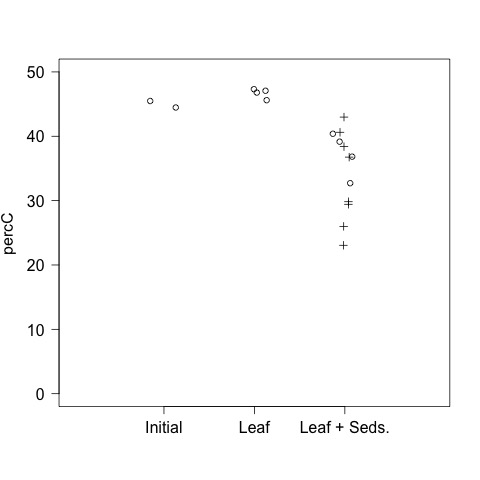
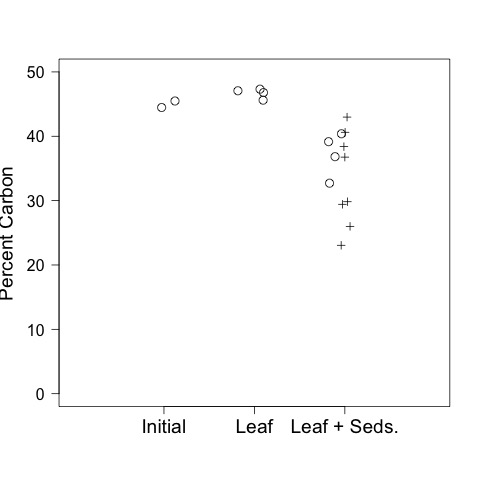
made figures better for ASB poster

diff --git a/lab_notebook/analysis/Leaf_CN_analysis.md b/lab_notebook/analysis/Leaf_CN_analysis.md
@@ -91,8 +91,8 @@ LS-L  -6.339343 -14.13283   1.454143 0.1063607
     axis(1, c("Initial", "Leaf", "Leaf + Sed."), at = c(1, 2, 3))
     box()
     points(jitter(rep(3, 8), 1), cn.cf$CN[cn.cf$Source == "leaf"], pch = 3)
-    dev.copy(jpeg, "./output/plots/cn_leaf_by_treatment.jpg")
-    dev.off()
+    #dev.copy(jpeg, "./output/plots/cn_leaf_by_treatment.jpg")
+    #dev.off()
 
 ![CN of Leaf by Treatment](../output/plots/cn_leaf_by_treatment.jpg)
 
@@ -162,9 +162,9 @@ LS-L -9.4250 -14.181663 -4.668337 0.0015993
 #### Plot
  
     par(las = 1)
-    plot(percC ~ jitter(as.numeric(Treat), 1), data = cn.ll, subset = Type == "Leaf",    ylim = c(0, 50), xlim = c(0, 4), xlab = " ", axes = F)
+    plot(percC ~ jitter(as.numeric(Treat), 1), data = cn.ll, subset = Type == "Leaf",    ylim = c(0, 50), xlim = c(0, 4), xlab = " ", ylab = "Percent Carbon", axes = F, cex = 1.5, cex.lab = 1.2)
     axis(2)
-    axis(1, c("Initial", "Leaf", "Leaf + Seds."), at = c(1, 2, 3))
+    axis(1, c("Initial", "Leaf", "Leaf + Seds."), at = c(1, 2, 3), cex.axis = 1.2)
     box()
     points(jitter(rep(3, 8), 1), cn.cf$percC[cn.cf$Source == "leaf"], pch = 3)
     dev.copy(jpeg, "./output/plots/percC_leaf_by_treatment.jpg")
@@ -184,6 +184,67 @@ To test whether there is more sediment attached to the leaves that were incubate
     axis(2)
     axis(1, c("S", "LS", "PRE"), at = c(1, 2, 3))
     box()
+    dev.copy(jpeg, "./output/plots/ash_mass_by_treatment.jpg")
+    dev.off()
+
+![Ash Mass of Leaf by Treatment](../output/plots/ash_mass_by_treatment.jpg)
+
+It looks like the ash mass of the leaf treatments is greater, indicating that the lower percent C may be just due to dilution of the sample with inorganic material.
+
+### Analysis of C Mass
+
+I am calculating the mass of C as the product of the sediment mass * the percent C
+
+    # Merge the cn.ll with the loi.ll data
+    ll.cn.loi <- merge(cn.ll, loi.ll, by.x = "BOD", by.y = "bod")
+    # Calculate the mass of C 
+    c.mass <- ll.cn.loi$percC * (ll.cn.loi$sed.mass / ll.cn.loi$leaf.num)
+
+#### Data Summary
+
+    summary(c.mass[ll.cn.loi$Type == "Leaf"])
+
+~~~~
+Summary of the Leaf C Mass from Leached Litter
+(g)
+
+ Min. 1st Qu.  Median    Mean 3rd Qu.    Max.    NAs 
+0.04067 0.05803 0.07068 0.07303 0.08542 0.10870       4 
+
+~~~~
+
+    tapply(c.mass[ll.cn.loi$Type == "Leaf"], ll.cn.loi$Treat[ll.cn.loi$Type == "Leaf"], summary)
+
+~~~~
+Summary of Leaf C Mass by Treatment (g)
+ 
+$I
+   Min. 1st Qu.  Median    Mean 3rd Qu.    Max. 
+0.08494 0.08638 0.09658 0.09670 0.10690 0.10870 
+
+$L
+   Min. 1st Qu.  Median    Mean 3rd Qu.    Max. 
+0.04067 0.05571 0.06253 0.06212 0.06894 0.08276 
+
+$LS
+   Min. 1st Qu.  Median    Mean 3rd Qu.    Max.    NAs 
+0.04981 0.04990 0.05912 0.06028 0.06950 0.07305       4
+
+~~~~
+ 
+#### Plot 
+ 
+    par(las = 1)
+    plot(c.mass ~ jitter(as.numeric(Treat), 1), data = ll.cn.loi, subset = Type == "Leaf", ylim = c(0, 0.15), xlim = c(0, 4), xlab = " ", ylab = "Carbon Mass per leaf (g)", axes = F, pch = 1, cex = 1.5, cex.lab = 1.2)
+    axis(2)    
+    axis(1, c("Initial", "Leaf", "Leaf + Seds."), at = c(1, 2, 3), cex.axis = 1.2)
+    box()
+    dev.copy(jpeg, "./output/plots/C_mass_leaf_by_treatment.jpg")
+    dev.off()
+
+![C Mass of Leaf by Treatment](../output/plots/ash_mass_by_treatment.jpg)
+
+When calcualted as a mass, the loss of C from the leaves is similar in the sediments and non-sediment environments.
 
 
 ### Effect of Treament on percent N
@@ -245,9 +306,9 @@ LS-L -0.0275 -0.378378 0.323378 0.9711771
 #### Plot
  
     par(las = 1)     
-    plot(percN ~ jitter(as.numeric(Treat), 1), data = cn.ll, subset = Type == "Leaf", ylim = c(0, 3), xlim = c(0, 4), xlab = " ", axes = F)
+    plot(percN ~ jitter(as.numeric(Treat), 1), data = cn.ll, subset = Type == "Leaf", ylim = c(0, 3), xlim = c(0, 4), xlab = " ", ylab = "Percent Nitrogen", axes = F, cex = 1.5, cex.lab = 1.2)
     axis(2)
-    axis(1, c("Initial", "Leaf", "Leaf + Seds."), at = c(1, 2, 3))
+    axis(1, c("Initial", "Leaf", "Leaf + Seds."), at = c(1, 2, 3), cex.axis = 1.2)
     box()
     points(jitter(rep(3, 8), 1), cn.cf$percN[cn.cf$Source == "leaf"], pch = 3)
     dev.copy(jpeg, "./output/plots/percN_leaf_by_treatment.jpg")
@@ -260,6 +321,26 @@ FIGURE Plot of the percent N (percN) of the leaf organic matter by the treatment
 #### Interpretation of percent N
 
 Unlike for the percent C, the percent N of the leaves increased from the initial regardless of whether they were incubated with sediments or not. 
+
+I am calculating the mass of N as the product of the sediment mass * the percent N
+
+### Calcualtion of N mass of Leaves
+
+    # Calculate the mass of N
+    n.mass <- ll.cn.loi$percN * (ll.cn.loi$sed.mass / ll.cn.loi$leaf.num)
+
+#### Data Summary
+
+
+    par(las = 1)
+    plot(n.mass * 1000 ~ jitter(as.numeric(Treat), 1), data = ll.cn.loi, subset = Type == "Leaf", ylim = c(0, 4), xlim = c(0, 4), xlab = " ", ylab = "Nitrogen Mass per leaf (mg)", axes = F, pch = 1, cex = 1.5, cex.lab = 1.2)
+    axis(2)    
+    axis(1, c("Initial", "Leaf", "Leaf + Seds."), at = c(1, 2, 3), cex.axis = 1.2)
+    box()
+    dev.copy(jpeg, "./output/plots/N_mass_leaf_by_treatment.jpg")
+    dev.off()
+
+![N Mass of Leaf by Treatment](../output/plots/N_mass_leaf_by_treatment.jpg)
 
 ### Leaf Analysis for CPOM Flux
 
